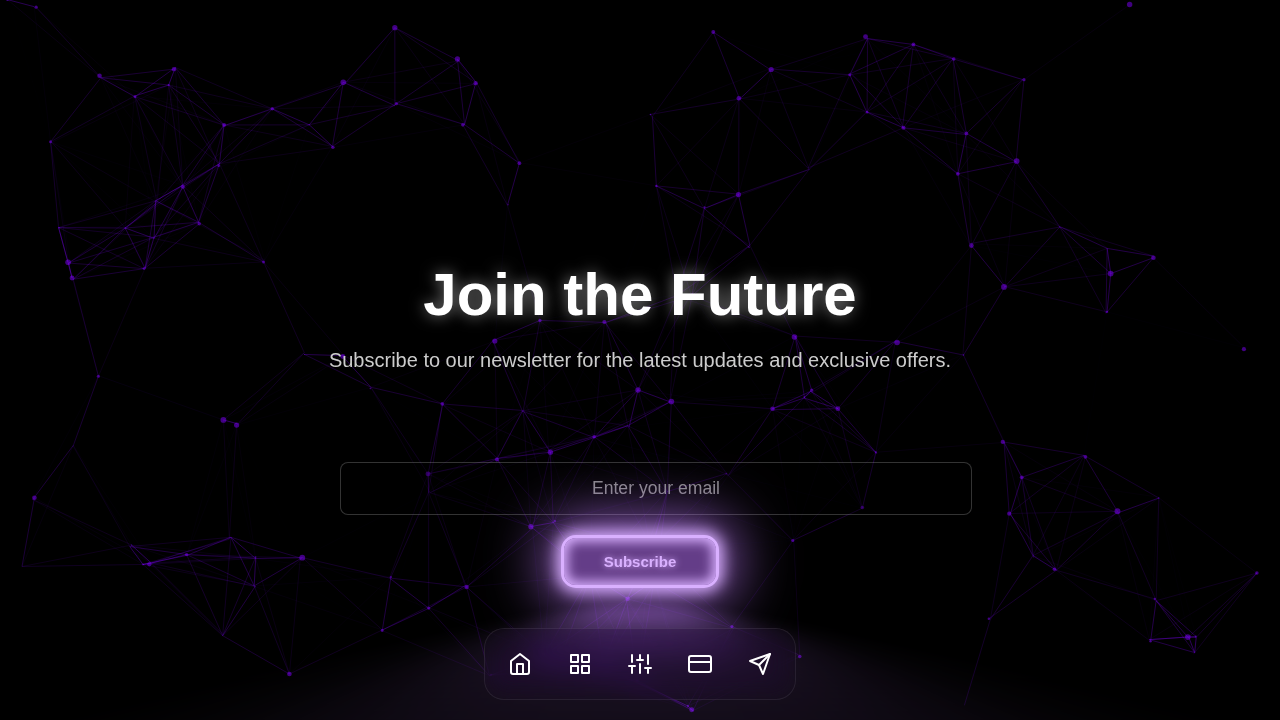
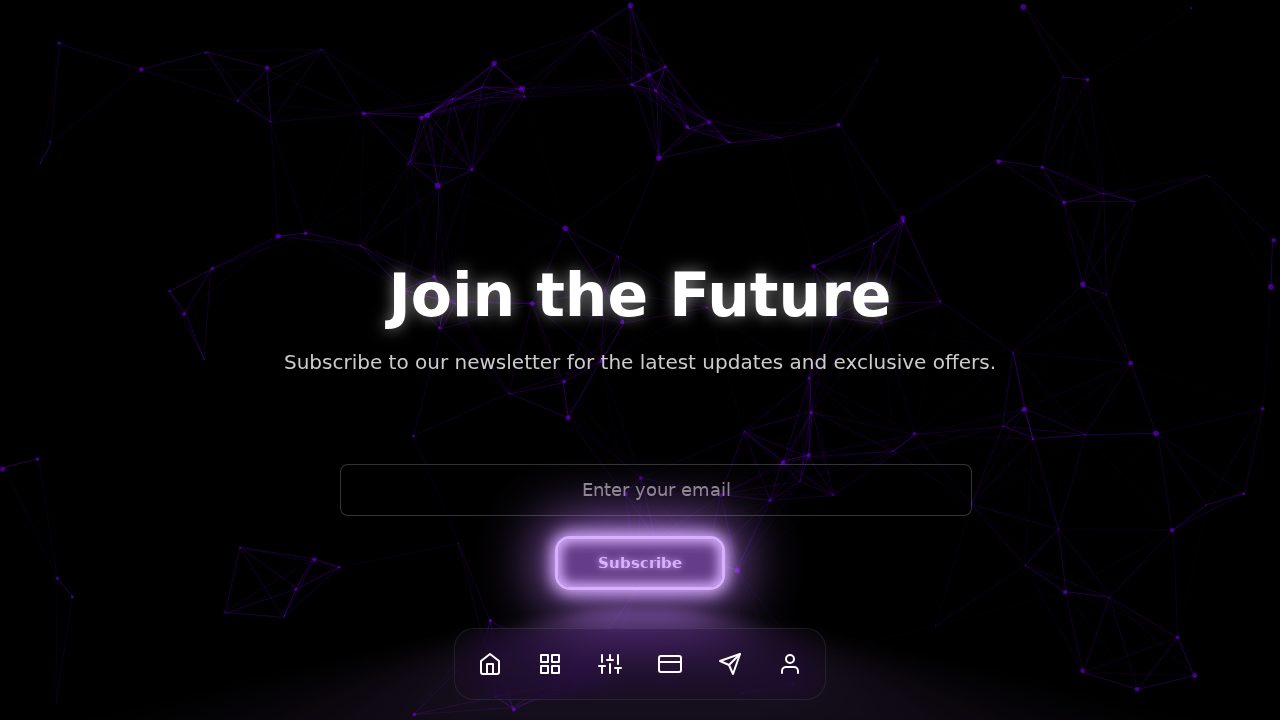
feat: Creata pagina account e aggiunto link in navigazione
- Creata la pagina `account.html` con sezioni per ordini, lista dei desideri, dati personali e stato della spedizione.
- Aggiunto un link "Account" alla barra di navigazione in tutte le pagine.
- Aggiunti stili a `pages.css` per la pagina dell'account.

diff --git a/account.html b/account.html
@@ -3,7 +3,7 @@
 <head>
     <meta charset="UTF-8">
     <meta name="viewport" content="width=device-width, initial-scale=1.0">
-    <title>Cyber-Glide - Gun Shoes</title>
+    <title>Gun Shoes - Account</title>
     <link rel="stylesheet" href="style.css">
     <link rel="stylesheet" href="pages.css">
     <script src="https://cdn.jsdelivr.net/particles.js/2.0.0/particles.min.js"></script>
@@ -13,20 +13,33 @@
     <div id="particles-js"></div>
 
     <main>
-        <section id="product-detail-page" class="product-detail-page">
-            <div class="product-detail-container">
-                <div class="product-image-container">
-                    <img src="images/shoe1.jpg" alt="Cyber-Glide Shoe" class="main-product-image">
-                </div>
-                <div class="product-info-container">
-                    <h1>Cyber-Glide</h1>
-                    <p class="product-price">$799.99</p>
-                    <p class="product-description">Experience the next generation of footwear with the Cyber-Glide. Featuring our proprietary nano-fiber weave for unparalleled durability and a kinetic energy return system, these shoes don't just move with you—they propel you. The integrated smart sensors provide real-time feedback to help you optimize your performance, while the sleek, aerodynamic design ensures you'll look as good as you feel.</p>
-                    <a href="#" class="btn">Buy Now</a>
+        <section id="account" class="account">
+            <div class="account-container">
+                <h1>Il Mio Account</h1>
+                <div class="account-sections">
+                    <div class="account-section">
+                        <h2>I Miei Ordini</h2>
+                        <p>Visualizza la cronologia dei tuoi ordini.</p>
+                        <a href="#" class="btn">Vedi Ordini</a>
+                    </div>
+                    <div class="account-section">
+                        <h2>Lista dei Desideri</h2>
+                        <p>Controlla i prodotti che hai salvato.</p>
+                        <a href="#" class="btn">Vedi Lista</a>
+                    </div>
+                    <div class="account-section">
+                        <h2>I Miei Dati</h2>
+                        <p>Gestisci i tuoi dati personali e indirizzi.</p>
+                        <a href="#" class="btn">Modifica Dati</a>
+                    </div>
+                    <div class="account-section">
+                        <h2>Stato Spedizione</h2>
+                        <p>Traccia la tua spedizione in tempo reale.</p>
+                        <a href="#" class="btn">Traccia Spedizione</a>
+                    </div>
                 </div>
             </div>
         </section>
-        <div id="gradual-blur"></div>
     </main>
 
     <footer>
@@ -47,10 +60,10 @@
             <svg xmlns="http://www.w3.org/2000/svg" width="24" height="24" viewBox="0 0 24 24" fill="none" stroke="white" stroke-width="2" stroke-linecap="round" stroke-linejoin="round"><rect x="1" y="4" width="22" height="16" rx="2" ry="2"></rect><line x1="1" y1="10" x2="23" y2="10"></line></svg>
         </a>
         <a href="newsletter.html" class="dock-item" title="Newsletter">
-            <svg xmlns="http://www.w3.org/2000/svg" width="24" height="24" viewBox="0 0 24 24" fill="none" stroke="white" stroke-width="2" stroke-linecap="round" stroke-linejoin="round"><line x1="22" y1="2" x2="11" y2="13"></line><polygon points="22 2 15 22 11 13 2 9 22 2"></polygon></svg>
+            <svg xmlns="http://www.w3.org/2000/svg" width="24" height="24" viewBox="0 0 24" 24" fill="none" stroke="white" stroke-width="2" stroke-linecap="round" stroke-linejoin="round"><line x1="22" y1="2" x2="11" y2="13"></line><polygon points="22 2 15 22 11 13 2 9 22 2"></polygon></svg>
         </a>
         <a href="account.html" class="dock-item" title="Account">
-            <svg xmlns="http://www.w3.org/2000/svg" width="24" height="24" viewBox="0 0 24 24" fill="none" stroke="white" stroke-width="2" stroke-linecap="round" stroke-linejoin="round"><path d="M20 21v-2a4 4 0 0 0-4-4H8a4 4 0 0 0-4 4v2"></path><circle cx="12" cy="7" r="4"></circle></svg>
+            <svg xmlns="http://www.w3.org/2000/svg" width="24" height="24" viewBox="0 0 24" 24" fill="none" stroke="white" stroke-width="2" stroke-linecap="round" stroke-linejoin="round"><path d="M20 21v-2a4 4 0 0 0-4-4H8a4 4 0 0 0-4 4v2"></path><circle cx="12" cy="7" r="4"></circle></svg>
         </a>
     </nav>
 

diff --git a/pages.css b/pages.css
@@ -209,3 +209,60 @@
     width: auto;
     padding: 15px 40px;
 }
+
+/* Account Page */
+.account-page {
+    padding: 100px 5%;
+}
+
+.account-container {
+    max-width: 1000px;
+    margin: 0 auto;
+    background: rgba(255, 255, 255, 0.05);
+    padding: 40px;
+    border-radius: 15px;
+    border: 1px solid rgba(255, 255, 255, 0.1);
+    backdrop-filter: blur(10px);
+    -webkit-backdrop-filter: blur(10px);
+    text-align: center;
+}
+
+.account-container h1 {
+    font-size: 48px;
+    color: #ffffff;
+    margin-bottom: 40px;
+    text-shadow: 0 0 15px rgba(255, 255, 255, 0.5);
+}
+
+.account-sections {
+    display: grid;
+    grid-template-columns: repeat(auto-fit, minmax(300px, 1fr));
+    gap: 30px;
+}
+
+.account-section {
+    background-color: rgba(26, 26, 26, 0.8);
+    padding: 30px;
+    border-radius: 15px;
+    text-align: center;
+    border: 1px solid rgba(127, 0, 255, 0.3);
+    transition: transform 0.3s, box-shadow 0.3s;
+}
+
+.account-section:hover {
+    transform: translateY(-10px);
+    box-shadow: 0 10px 30px rgba(127, 0, 255, 0.3);
+}
+
+.account-section h2 {
+    font-size: 28px;
+    color: #ffffff;
+    margin-bottom: 15px;
+}
+
+.account-section p {
+    font-size: 16px;
+    color: #cccccc;
+    line-height: 1.6;
+    margin-bottom: 20px;
+}

diff --git a/index.html b/index.html
@@ -91,6 +91,9 @@
         <a href="newsletter.html" class="dock-item" title="Newsletter">
             <svg xmlns="http://www.w3.org/2000/svg" width="24" height="24" viewBox="0 0 24 24" fill="none" stroke="white" stroke-width="2" stroke-linecap="round" stroke-linejoin="round"><line x1="22" y1="2" x2="11" y2="13"></line><polygon points="22 2 15 22 11 13 2 9 22 2"></polygon></svg>
         </a>
+        <a href="account.html" class="dock-item" title="Account">
+            <svg xmlns="http://www.w3.org/2000/svg" width="24" height="24" viewBox="0 0 24 24" fill="none" stroke="white" stroke-width="2" stroke-linecap="round" stroke-linejoin="round"><path d="M20 21v-2a4 4 0 0 0-4-4H8a4 4 0 0 0-4 4v2"></path><circle cx="12" cy="7" r="4"></circle></svg>
+        </a>
     </nav>
 
     <script src="script.js"></script>

diff --git a/newsletter.html b/newsletter.html
@@ -52,6 +52,9 @@
         <a href="newsletter.html" class="dock-item" title="Newsletter">
             <svg xmlns="http://www.w3.org/2000/svg" width="24" height="24" viewBox="0 0 24 24" fill="none" stroke="white" stroke-width="2" stroke-linecap="round" stroke-linejoin="round"><line x1="22" y1="2" x2="11" y2="13"></line><polygon points="22 2 15 22 11 13 2 9 22 2"></polygon></svg>
         </a>
+        <a href="account.html" class="dock-item" title="Account">
+            <svg xmlns="http://www.w3.org/2000/svg" width="24" height="24" viewBox="0 0 24 24" fill="none" stroke="white" stroke-width="2" stroke-linecap="round" stroke-linejoin="round"><path d="M20 21v-2a4 4 0 0 0-4-4H8a4 4 0 0 0-4 4v2"></path><circle cx="12" cy="7" r="4"></circle></svg>
+        </a>
     </nav>
 
     <script src="script.js"></script>

diff --git a/order.html b/order.html
@@ -88,6 +88,9 @@
         <a href="newsletter.html" class="dock-item" title="Newsletter">
             <svg xmlns="http://www.w3.org/2000/svg" width="24" height="24" viewBox="0 0 24 24" fill="none" stroke="white" stroke-width="2" stroke-linecap="round" stroke-linejoin="round"><line x1="22" y1="2" x2="11" y2="13"></line><polygon points="22 2 15 22 11 13 2 9 22 2"></polygon></svg>
         </a>
+        <a href="account.html" class="dock-item" title="Account">
+            <svg xmlns="http://www.w3.org/2000/svg" width="24" height="24" viewBox="0 0 24 24" fill="none" stroke="white" stroke-width="2" stroke-linecap="round" stroke-linejoin="round"><path d="M20 21v-2a4 4 0 0 0-4-4H8a4 4 0 0 0-4 4v2"></path><circle cx="12" cy="7" r="4"></circle></svg>
+        </a>
     </nav>
 
     <script src="script.js"></script>

diff --git a/products.html b/products.html
@@ -83,6 +83,9 @@
         <a href="newsletter.html" class="dock-item" title="Newsletter">
             <svg xmlns="http://www.w3.org/2000/svg" width="24" height="24" viewBox="0 0 24 24" fill="none" stroke="white" stroke-width="2" stroke-linecap="round" stroke-linejoin="round"><line x1="22" y1="2" x2="11" y2="13"></line><polygon points="22 2 15 22 11 13 2 9 22 2"></polygon></svg>
         </a>
+        <a href="account.html" class="dock-item" title="Account">
+            <svg xmlns="http://www.w3.org/2000/svg" width="24" height="24" viewBox="0 0 24 24" fill="none" stroke="white" stroke-width="2" stroke-linecap="round" stroke-linejoin="round"><path d="M20 21v-2a4 4 0 0 0-4-4H8a4 4 0 0 0-4 4v2"></path><circle cx="12" cy="7" r="4"></circle></svg>
+        </a>
     </nav>
 
     <script src="script.js"></script>

diff --git a/technology.html b/technology.html
@@ -66,6 +66,9 @@
         <a href="newsletter.html" class="dock-item" title="Newsletter">
             <svg xmlns="http://www.w3.org/2000/svg" width="24" height="24" viewBox="0 0 24 24" fill="none" stroke="white" stroke-width="2" stroke-linecap="round" stroke-linejoin="round"><line x1="22" y1="2" x2="11" y2="13"></line><polygon points="22 2 15 22 11 13 2 9 22 2"></polygon></svg>
         </a>
+        <a href="account.html" class="dock-item" title="Account">
+            <svg xmlns="http://www.w3.org/2000/svg" width="24" height="24" viewBox="0 0 24 24" fill="none" stroke="white" stroke-width="2" stroke-linecap="round" stroke-linejoin="round"><path d="M20 21v-2a4 4 0 0 0-4-4H8a4 4 0 0 0-4 4v2"></path><circle cx="12" cy="7" r="4"></circle></svg>
+        </a>
     </nav>
 
     <script src="script.js"></script>

diff --git a/tests/test_e2e.py b/tests/test_e2e.py
@@ -2,13 +2,13 @@ import re
 from playwright.sync_api import Page, expect
 
 def test_homepage(page: Page):
-    page.goto("/")
+    page.goto("index.html")
     expect(page).to_have_title(re.compile("Gun Shoes"))
 
 def test_order_page_screenshot(page: Page):
-    page.goto("/order.html")
+    page.goto("order.html")
     page.screenshot(path="screenshots/order_page.png")
 
 def test_newsletter_page_screenshot(page: Page):
-    page.goto("/newsletter.html")
+    page.goto("newsletter.html")
     page.screenshot(path="screenshots/newsletter_page.png")
